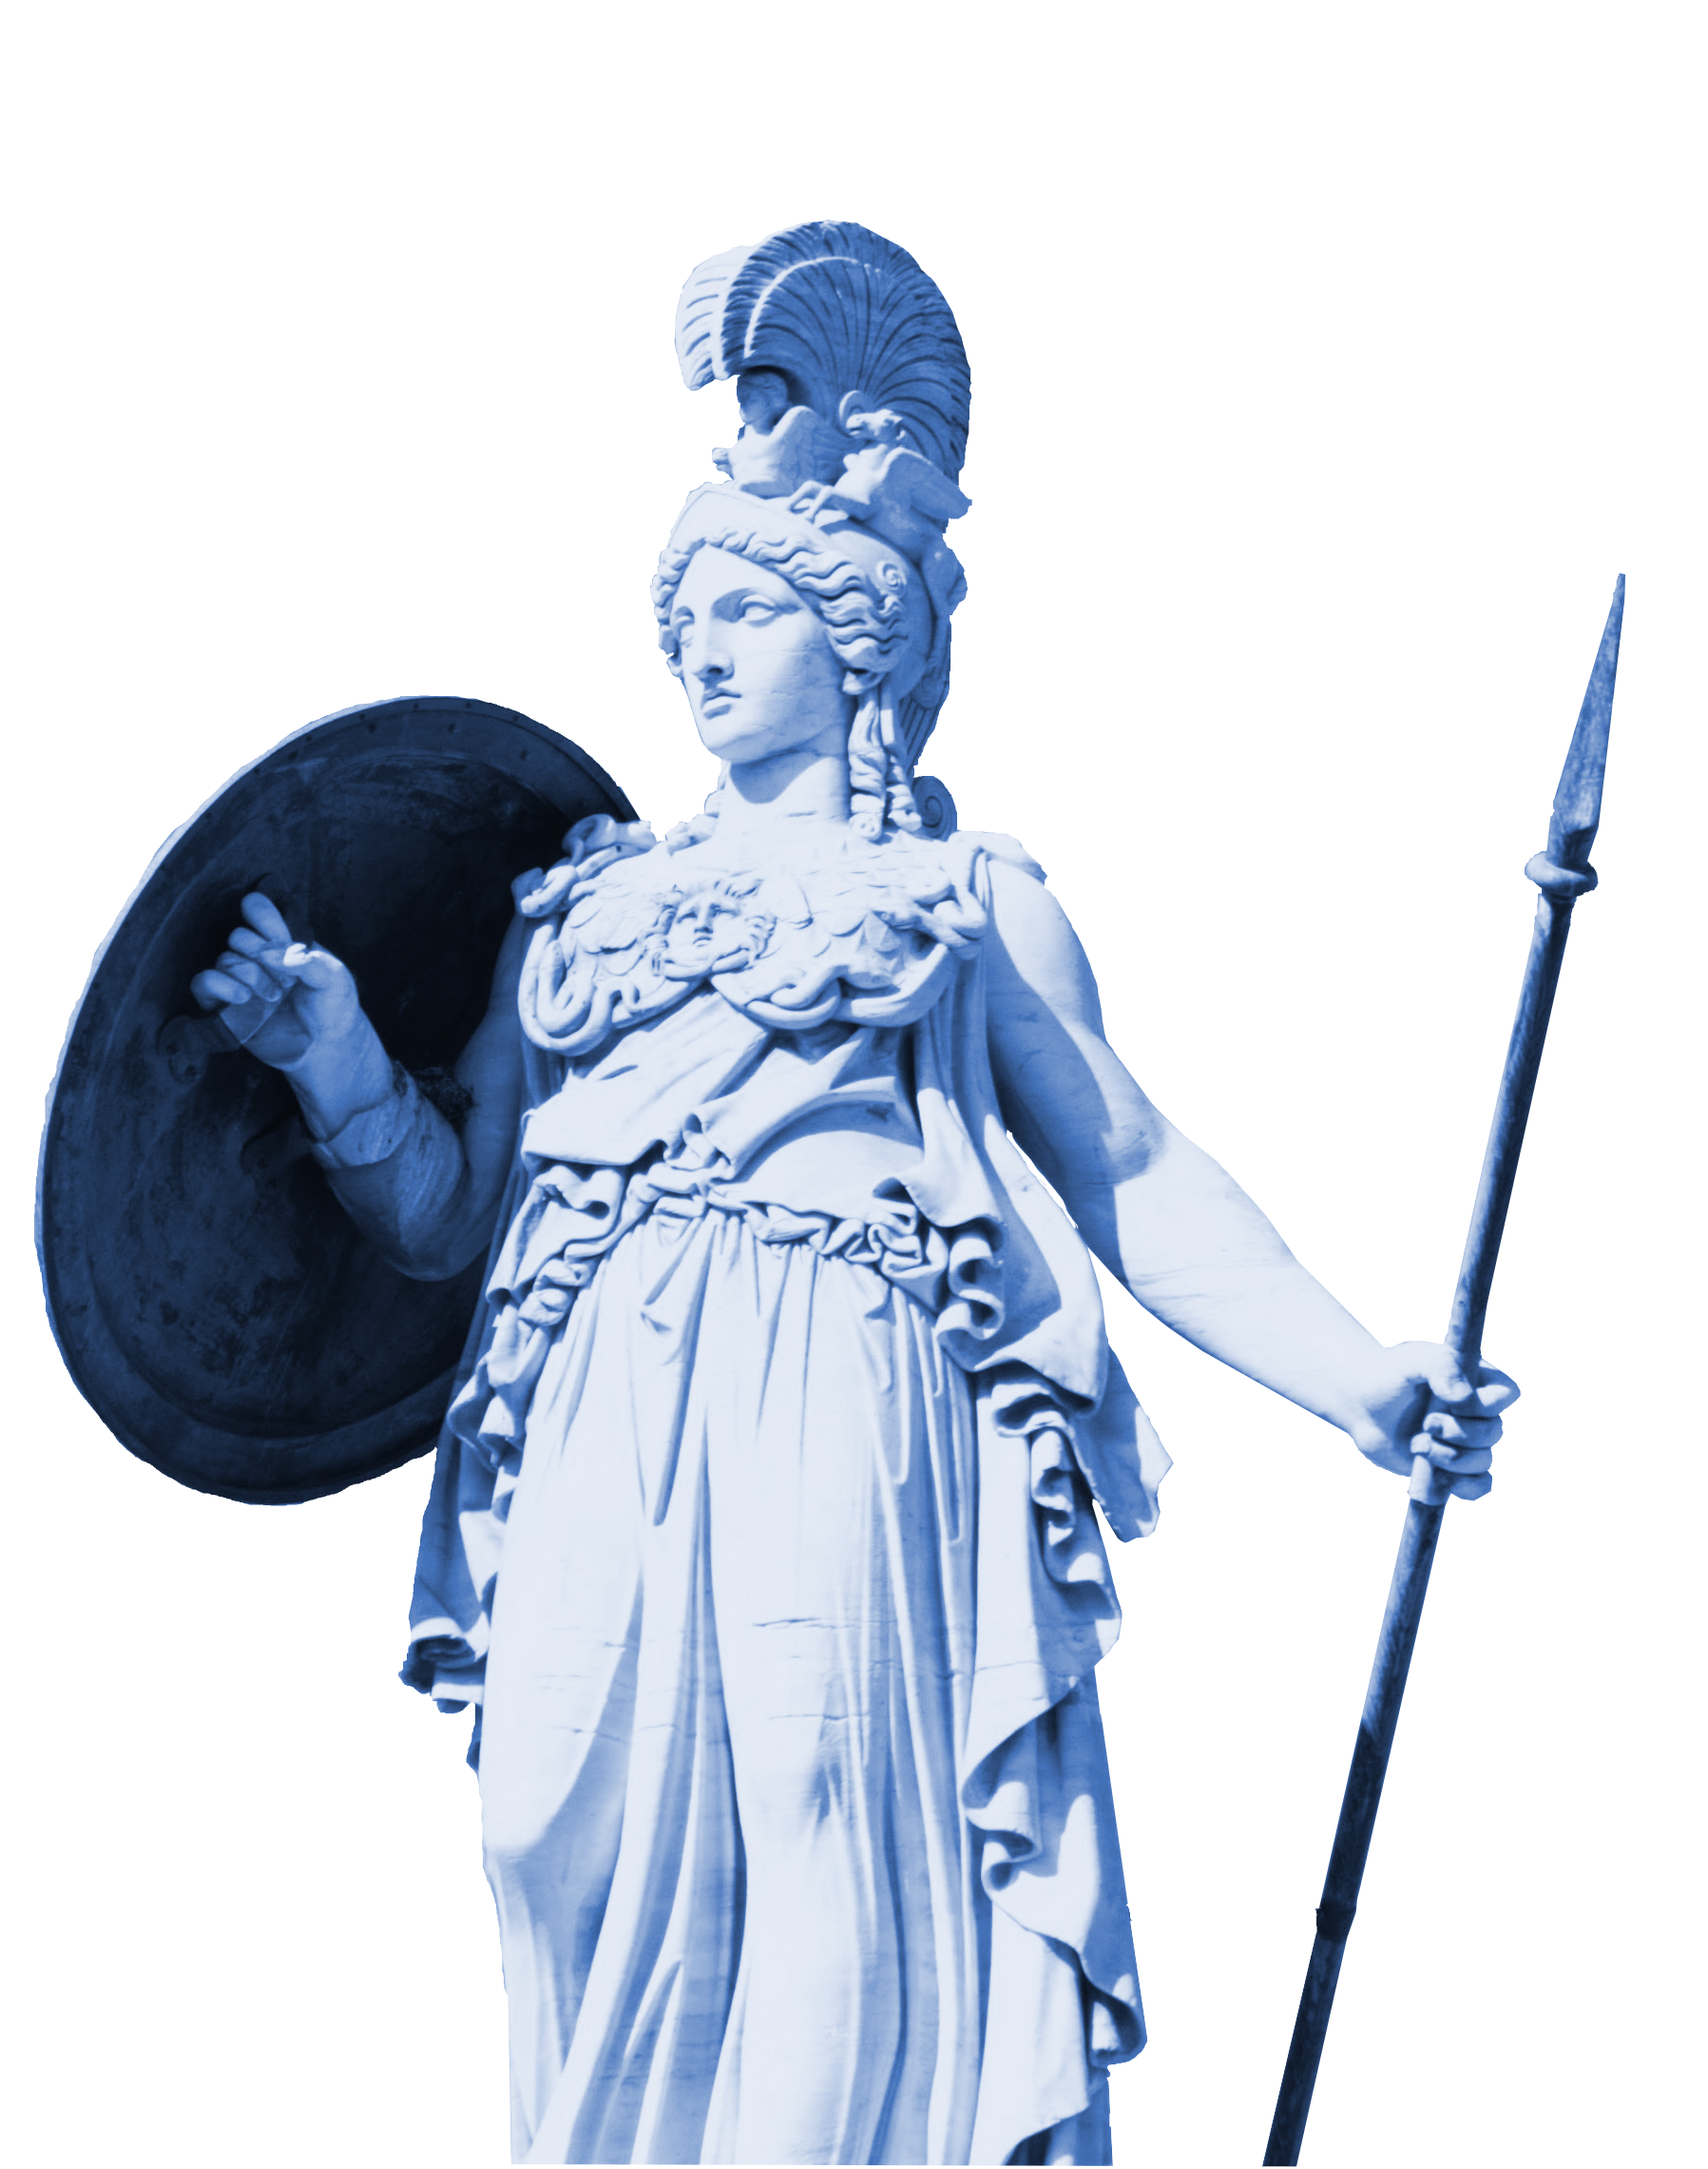
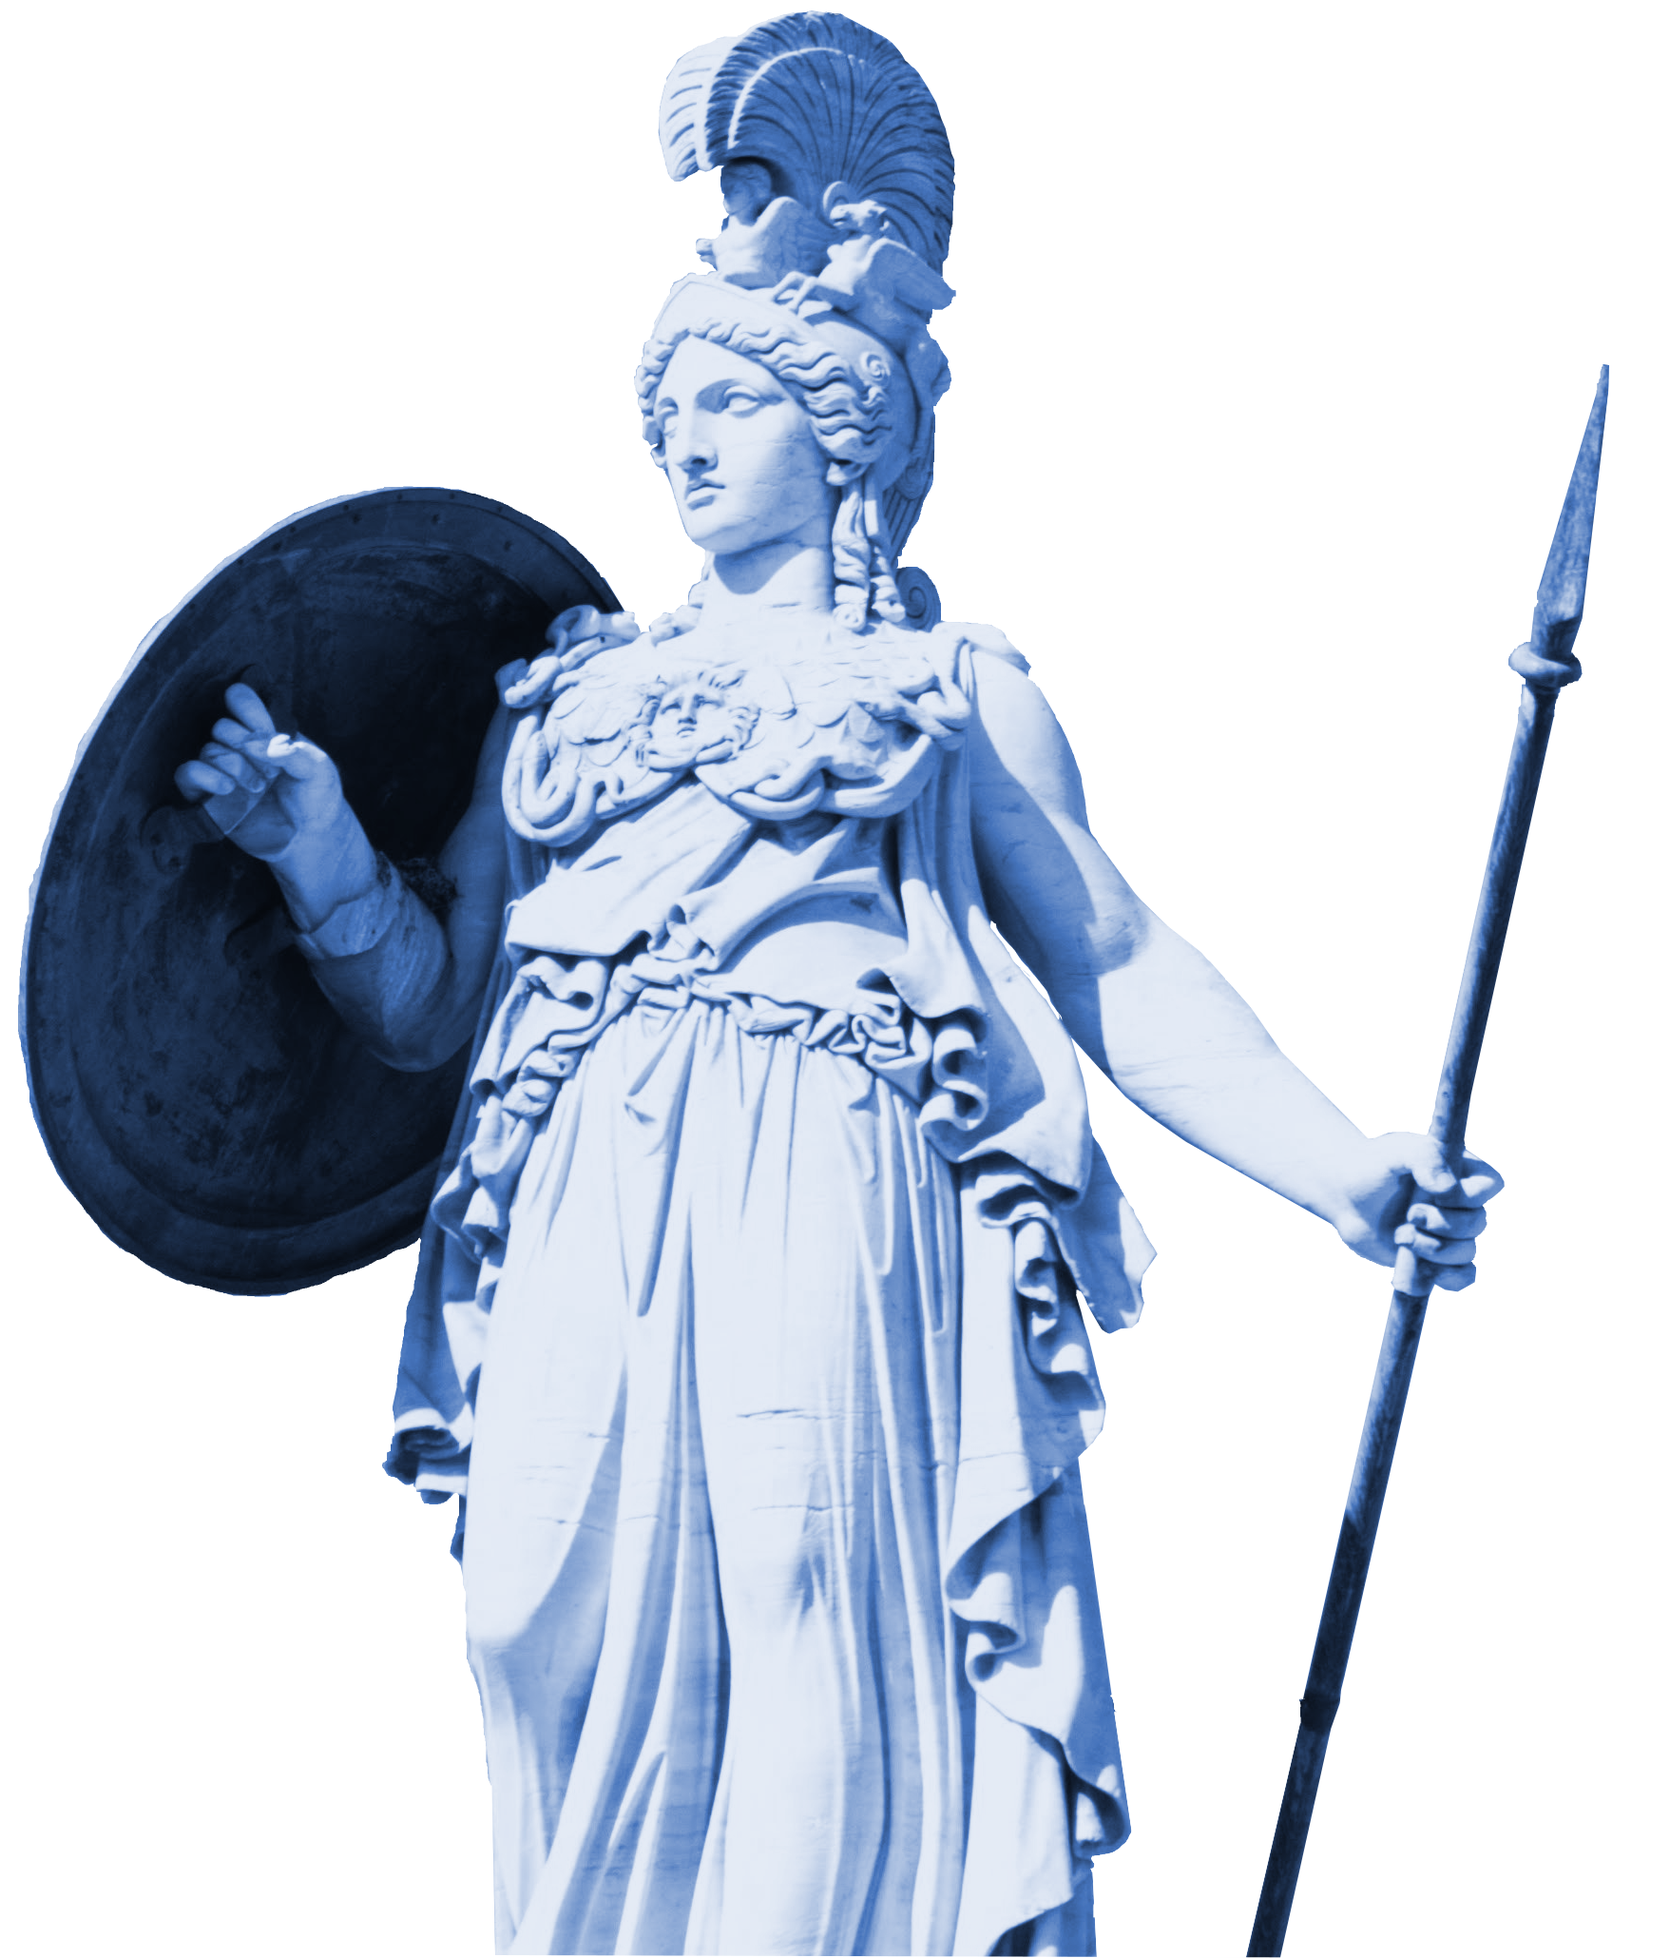
Media quesry added and style updated

Changed region(s): [[0.0, 0.0, 0.9835, 1.0]]

diff --git a/assets/css/style.css b/assets/css/style.css
@@ -8,7 +8,6 @@
   padding: 0;
   border: none;
   font-family: 'Karla', sans-serif;
-  font-size: 100%;
   color: whitesmoke;
 }
 /*GENERAL SYLE*/
@@ -47,22 +46,33 @@ button{
   width: 90%;
   padding: 10px 5px;
   box-shadow: 3px 3px 3px black;
-  border: solid beige 2px;
+  border: solid whitesmoke 1px;
   border-radius: 4px;
 }
 
 .fa-solid:hover,.fa-regular:hover,.fa-brands:hover{
-  color:#CE951B;
+  color:#A14A76;
   text-shadow: 4px 2px 4px #000000;
 }
 
 .o-hover:hover{
-  background-color: #CE951B;
-  border: solid #CE951B 2px;
+  background-color: #A14A76;
+  border: solid #A14A76 2px;
 }
 
 .fa-solid,.fa-regular,.fa-brands{
   font-size: 2.5rem;
+}
+
+/*BACKGROUND IMAGE*/
+
+/*settings taken from https://css-tricks.com/perfect-full-page-background-image/ */
+#stars{
+  background: url('/assets/images/pexels-rafael-cerqueira-4737484.jpg') no-repeat center center fixed; 
+  -webkit-background-size: cover;
+  -moz-background-size: cover;
+  -o-background-size: cover;
+  background-size: cover;
 }
 
 /*HEADER SECTION*/
@@ -75,7 +85,7 @@ header{
   position:fixed;
 }
 
-/*Menu container*/
+/*Menu container*
 #menu-position {
   position: absolute;
   width: 200px;
@@ -116,26 +126,6 @@ header{
 }
 
 /*GAME SECTION*/
-.game-parent-container{
-  width: 450px;
-  height: 450px;
-  padding: 25px;
-  border-radius: 15px;
-  background-color: rgba(3,31,61,0.9);
-  text-align: center;
-}
-
-/*background-photo*/
-#stars{
-  background: url('/assets/images/pexels-rafael-cerqueira-4737484.jpg') no-repeat top;
-  background-size: 100%;
-}
-#athena-img{
-  position: inline;
-  max-height: 100%;
-  z-index: 1 ;
-}
-
 #game-area {
   position: absolute;
   top: 20%;
@@ -147,8 +137,25 @@ header{
   justify-content: center;
 }
 
-/*Game window sections - identical for all game windows*/
+.game-parent-container{
+  width: 450px;
+  height: 450px;
+  padding: 25px;
+  border-radius: 15px;
+  background-color: rgba(3,31,61,0.9);
+  text-align: center;
+}
 
+#athena-img{
+  position: inline;
+  height: 100%;
+  z-index: 1;
+}
+
+#athena-img-half{
+  display: none;
+}
+/*Game window sections - identical for all game windows*/
 .top-section{
   height: 10%;
   text-align: center;
@@ -198,8 +205,8 @@ header{
 }
 
 .radio-btn:checked + label{
-  background-color: #CE951B;
-  border: solid #CE951B 2px;
+  background-color: #A14A76;
+  border: solid #A14A76 2px;
   box-shadow: 0 0;
 }
 
@@ -208,6 +215,7 @@ header{
 p, #question-paragraph{
   background-color: whitesmoke;
   color: #031F3D;
+  border-radius: 30px;
 }
 #time-left, #time-left~div{
   font-size: 1.5rem;
@@ -250,7 +258,7 @@ footer {
   align-content: center;
   justify-content: space-between;
   position:fixed;
-  bottom: 0
+  bottom: 0;
 }
 
 .social-media-links{
@@ -259,4 +267,69 @@ footer {
   list-style-type: none;
   margin: auto;
   width: 100px;
+}
+
+/*MEDIA QUERIES*/
+@media (max-aspect-ratio: 10/9){
+
+  *{font-size: 2vmax;}
+
+  #game-title{
+    font-size: 3.6vmax;
+    text-align: center;
+  }
+
+  header{
+    display: flex;
+    align-items: center;
+    z-index: 2;
+  }
+
+  #athena-img{
+    display: none;
+  }
+
+  #athena-img-half{
+    display: inline;
+    position: fixed;
+    right: 0;
+    bottom: 10%;
+    top: 0;
+    max-height: 100%;
+    overflow: hidden;
+  }
+
+  .game-parent-container{
+    height: 80%;
+    width: 80%;
+    padding: 10px;
+    z-index: 1;
+    background-color: rgba(3,31,61,0.5);
+    border-radius: 15px;
+  }
+
+  .answers, .selectable{
+    background-color: rgba(3,31,61,0.9);
+  }
+
+  #game-area {
+    left: 0;
+    right: 0;
+  }
+
+  #start-form{
+    width: 70%;
+  }
+
+  .top-section{
+    height: 10%;
+  }
+  
+  .middle-section{
+    height: 70%;
+  }
+  
+  .bottom-section{
+    height: 15%;
+  }
 }

diff --git a/index.html b/index.html
@@ -10,7 +10,7 @@
 <body id="stars">
     <header> <!--Document header section starts here-->
         <h1 id="game-title">Greek Mythology Quiz</h1>
-        <div id="menu-position">
+        <!--<div id="menu-position">
             <div id="menu-drop">
                 <i class="fa-solid fa-volume-high"></i>
                 <a href="javascript:void(0);" onclick="dropMenu()" id="stack-icon">
@@ -22,23 +22,23 @@
                     <a href="link to starting page" class="black-on-white">Quit Game</a>
                 </div>
             </div>
-        </div>
+        </div>-->
     </header>
 <!--Background photo-->
     <div id="game-area">
         <!--Start Screen for the game-->
         <section id="start-window" class="game-parent-container"> 
             <form class="start-menu" id="start-form">
-                <h2 class="top-section">Start New Quiz</h2>
+                <h2 class="top-section">Start Quiz</h2>
                 <div id="game-options-section" class="middle-section">
                     <input type="radio" id="basic" name="quiz-difficulty" value="basic" class="radio-btn" required>
-                    <label for="basic" class="game-level raised-box o-hover">Basic</label>
+                    <label for="basic" class="game-level raised-box o-hover selectable">Basic</label>
                     <br>
                     <input type="radio" id="moderate" name="quiz-difficulty" value="moderate" class="radio-btn">
-                    <label for="moderate" class="game-level raised-box o-hover">Moderate</label>
+                    <label for="moderate" class="game-level raised-box o-hover selectable">Moderate</label>
                     <br>
                     <input type="radio" id="challenging" name="quiz-difficulty" value="challenging" class="radio-btn">
-                    <label for="challenging" class="game-level raised-box o-hover">Challenging</label>
+                    <label for="challenging" class="game-level raised-box o-hover selectable">Challenging</label>
                     <br>
                     <input type="text" name="player-name" placeholder="Enter Name" id="player-name" class="raised-box" id="fill-box" required>
                 </div>
@@ -54,9 +54,9 @@
             </h2>
             <div id="display-text" class="middle-section">
                 <p class="raised-box" id="question-paragraph">Question goes here!</p>
-                <button class="answers raised-box o-hover">First Option</button>
-                <button class="answers raised-box o-hover">Second Option</button>
-                <button class="answers raised-box o-hover">Third Option</button>
+                <button class="answers raised-box o-hover selectable">First Option</button>
+                <button class="answers raised-box o-hover selectable">Second Option</button>
+                <button class="answers raised-box o-hover selectable">Third Option</button>
             </div>
             <div id ="staus-container" class="bottom-section">
                 <div id="time-left">30s</div>
@@ -78,6 +78,7 @@
             </div>
         </section>   
         <img src="/assets/images/blue-athena-mirrored.png" id="athena-img">
+        <img src="/assets/images/blue-athena-half.png" id="athena-img-half">
     </div> 
 
     <footer>

diff --git a/assets/js/script.js b/assets/js/script.js
@@ -126,7 +126,7 @@ function displayQuiz(){
   questionNumberHtml.innerHTML= questionNumber;
   optionsHtml.innerHTML= 
     `<p id="quiz-question" class="raised-box grey-on-beige">${quizQuestionText}</p>
-    <button class="answers raised-box o-hover beige-on-grey">${answerOptionsText[0]}</button>
+    <button class="answers raised-box o-hover beige-on-grey ">${answerOptionsText[0]}</button>
     <button class="answers raised-box o-hover beige-on-grey">${answerOptionsText[1]}</button>
     <button class="answers raised-box o-hover beige-on-grey">${answerOptionsText[2]}</button>`;
   moveOnGameBtn.style.visibility = 'hidden';
@@ -153,7 +153,7 @@ function checkAnswer(){
       correctOptionHtml = i;
     }}
 
-  selectedOption.style.color="black";
+  selectedOption.style.color="paleturquoise";
   questionIndex++;
 
   if (selectedOption.textContent == correctOption){
